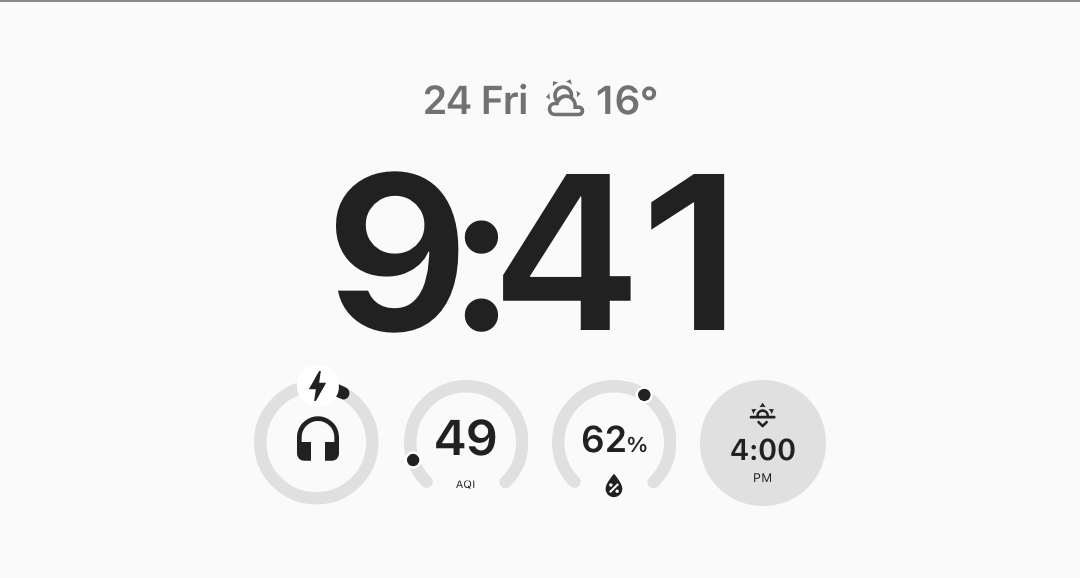
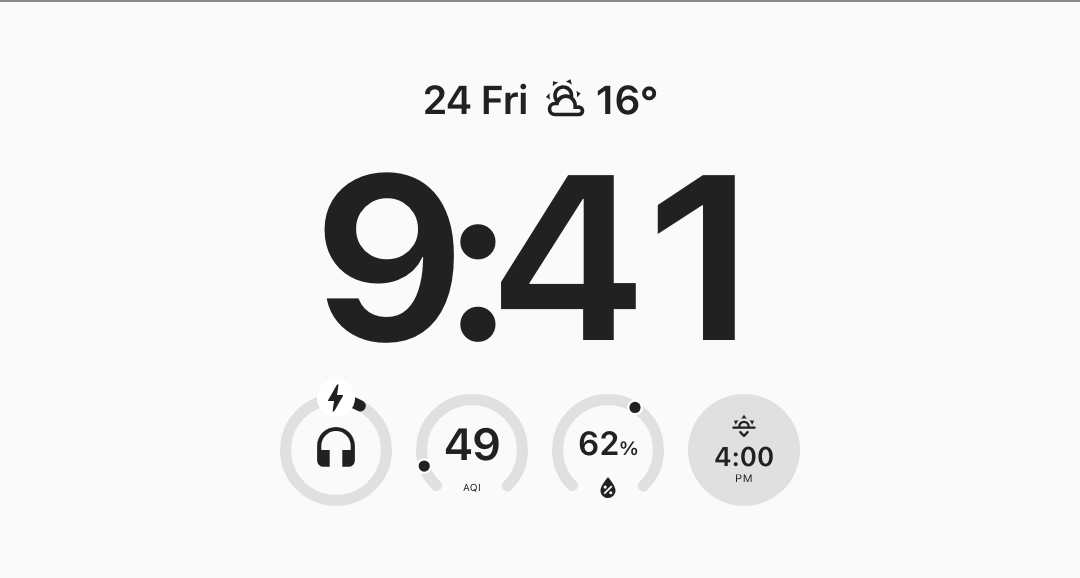
fix(complications): improve small gauge rendering

diff --git a/src/ui/complication/complication.ts b/src/ui/complication/complication.ts
@@ -189,6 +189,7 @@ export const complicationStyles: CSSResult = css`
   .cw-gauge {
     position: relative;
     flex: none;
+    container: cw-gauge / inline-size;
     /* Required. The 0 is what makes a card that forgot it draw nothing rather than 300px of
        SVG default; the module comment has the argument. */
     width: var(--cw-gauge-size, 0);
@@ -198,9 +199,21 @@ export const complicationStyles: CSSResult = css`
     );
   }
 
-  .cw-gauge-disc {
+  .cw-gauge-disc::before {
+    content: '';
+    position: absolute;
+    inset: 0;
     border-radius: 50%;
     background: var(--cw-track);
+  }
+
+  .cw-gauge-disc-face {
+    display: none;
+    position: absolute;
+    inset: 0;
+    width: 100%;
+    height: 100%;
+    fill: var(--cw-track);
   }
 
   .cw-gauge-gradient {
@@ -220,6 +233,52 @@ export const complicationStyles: CSSResult = css`
     display: block;
     width: 100%;
     height: 100%;
+  }
+
+  /* A diameter of roughly 60 device pixels is the trial threshold. The inset keeps the
+     wider stroke inside the viewport while preserving the arc and dot on one centreline.
+     Disc switches to an SVG face in this size range so both renderers can be compared. */
+  @container cw-gauge (width <= 60px) {
+    @media (resolution <= 1dppx) {
+      .cw-gauge-dial,
+      .cw-gauge-disc-face {
+        shape-rendering: geometricPrecision;
+      }
+
+      .cw-gauge-dial,
+      .cw-gauge-gradient {
+        inset: 0.5%;
+        width: 99%;
+        height: 99%;
+      }
+
+      .cw-gauge-track,
+      .cw-gauge-arc {
+        stroke-width: 11;
+      }
+
+      .cw-gauge-gradient-cap {
+        r: 5.5;
+      }
+
+      .cw-gauge-gradient {
+        mask-image: radial-gradient(
+          circle closest-side,
+          transparent 78.5%,
+          black 79.5%,
+          black 99.5%,
+          transparent 100%
+        );
+      }
+
+      .cw-gauge-disc-face {
+        display: block;
+      }
+
+      .cw-gauge-disc::before {
+        display: none;
+      }
+    }
   }
 
   /* Round caps, so a dial's two ends are finished rather than sawn off. A closed circle is a
@@ -463,7 +522,13 @@ export const renderComplication = (spec: ComplicationSpec): TemplateResult => {
     : nothing
   const dial =
     spec.form === 'disc'
-      ? nothing
+      ? html`<svg
+          class="cw-gauge-disc-face"
+          viewBox="0 0 ${COMPLICATION_BOX} ${COMPLICATION_BOX}"
+          aria-hidden="true"
+        >
+          <circle cx=${COMPLICATION_CENTER} cy=${COMPLICATION_CENTER} r=${COMPLICATION_CENTER} />
+        </svg>`
       : html`
           ${gradient ? html`<div class="cw-gauge-gradient" style=${`background: ${gradient}`}></div>` : nothing}
           <svg
@@ -472,7 +537,10 @@ export const renderComplication = (spec: ComplicationSpec): TemplateResult => {
             aria-hidden="true"
           >
             ${caps.map(
-              ({ point, colour }) => svg`<circle cx=${point.x} cy=${point.y}
+              ({
+                point,
+                colour,
+              }) => svg`<circle class="cw-gauge-gradient-cap" cx=${point.x} cy=${point.y}
               r=${COMPLICATION_STROKE / 2} fill=${colour} />`,
             )}
             <g

diff --git a/src/cards/clock/clock-card.ts b/src/cards/clock/clock-card.ts
@@ -17,6 +17,7 @@ import {
 export const CLOCK_CARD_TAG = 'cupertino-clock-card'
 
 const COMPLICATION_GAP = 12
+const MAX_COMPLICATION_DIAMETER = 56
 
 const weatherIcons: Record<string, string> = {
   'clear-night': mdi.mdiWeatherNight,
@@ -71,7 +72,7 @@ class CupertinoClockCard extends CupertinoComplicationCardBase<ClockCardConfig> 
       .context {
         max-width: 100%;
         font: var(--cw-text-title-3);
-        color: var(--cw-label-secondary);
+        color: var(--cw-label);
         gap: calc(8px * var(--cw-scale));
       }
       .weather {
@@ -193,7 +194,7 @@ class CupertinoClockCard extends CupertinoComplicationCardBase<ClockCardConfig> 
       ? Math.max(
           0,
           Math.min(
-            76,
+            MAX_COMPLICATION_DIAMETER,
             (width - (rows.length - 1) * COMPLICATION_GAP) / rows.length,
             timeAndReadings * 0.36,
           ),

diff --git a/src/cards/complications/complication-card-base.ts b/src/cards/complications/complication-card-base.ts
@@ -38,7 +38,7 @@ export abstract class CupertinoComplicationCardBase<
       .cell[data-unavailable] :is(.cw-gauge-center, .cw-gauge-footer) {
         opacity: 0.55;
       }
-      .cell[data-weather-dial] .cw-gauge-center {
+      .cell:is([data-weather-dial], [data-co2-dial]) .cw-gauge-center {
         top: 50%;
       }
       .cell[data-weather-dial] .cw-gauge-value {
@@ -204,6 +204,7 @@ export abstract class CupertinoComplicationCardBase<
         ?data-unavailable=${!complication.available}
         ?data-degree=${sensorTemperature}
         ?data-weather-dial=${weatherDial}
+        ?data-co2-dial=${complication.key === 'co2' && complication.form === 'dial'}
         style=${styleMap({
           '--cw-gauge-value-scale': valueScale,
           '--cw-gauge-end-scale': endScale,
